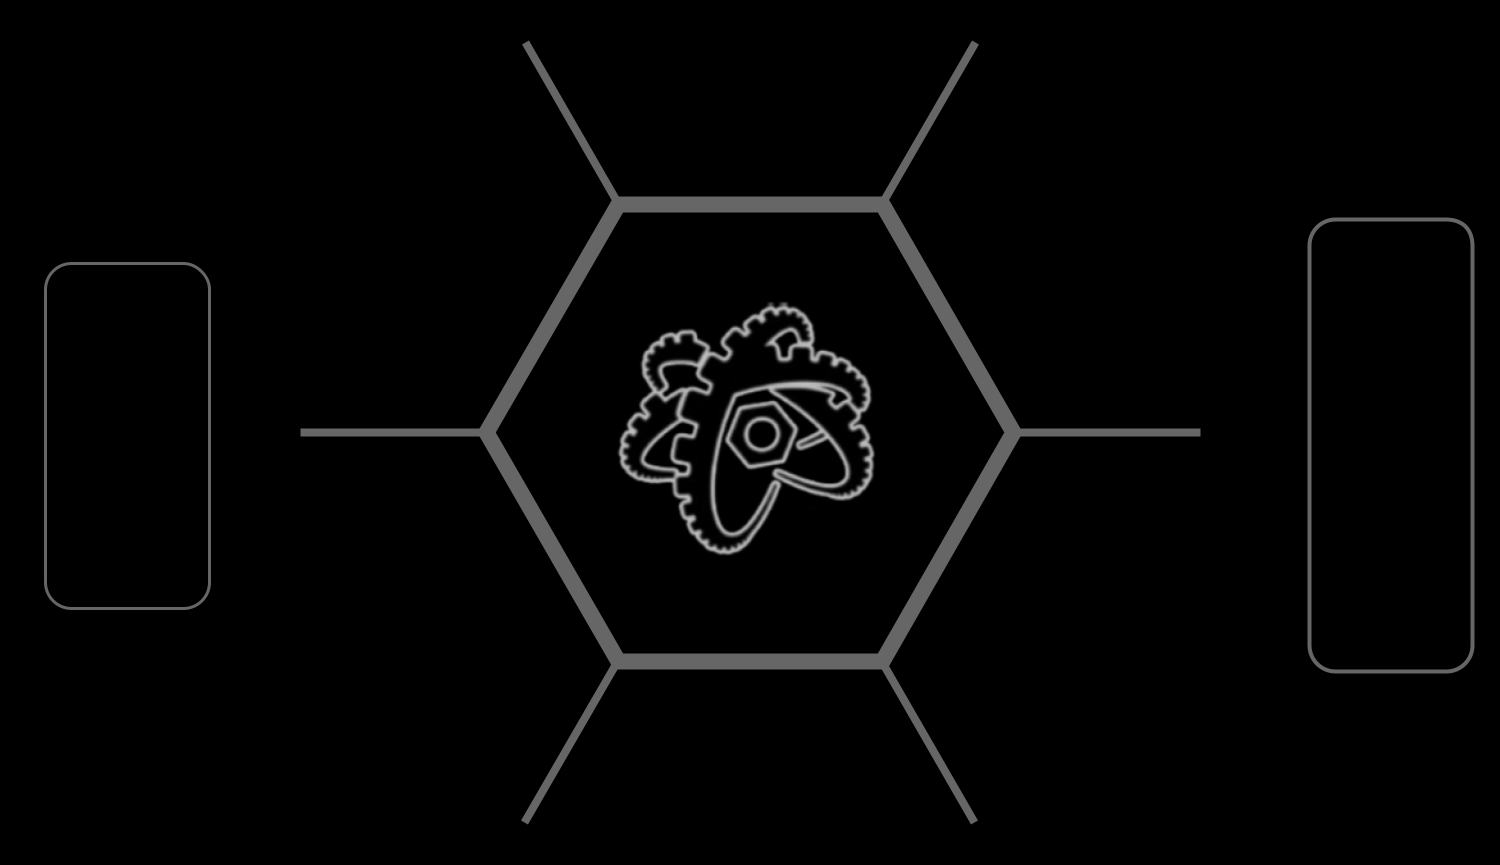
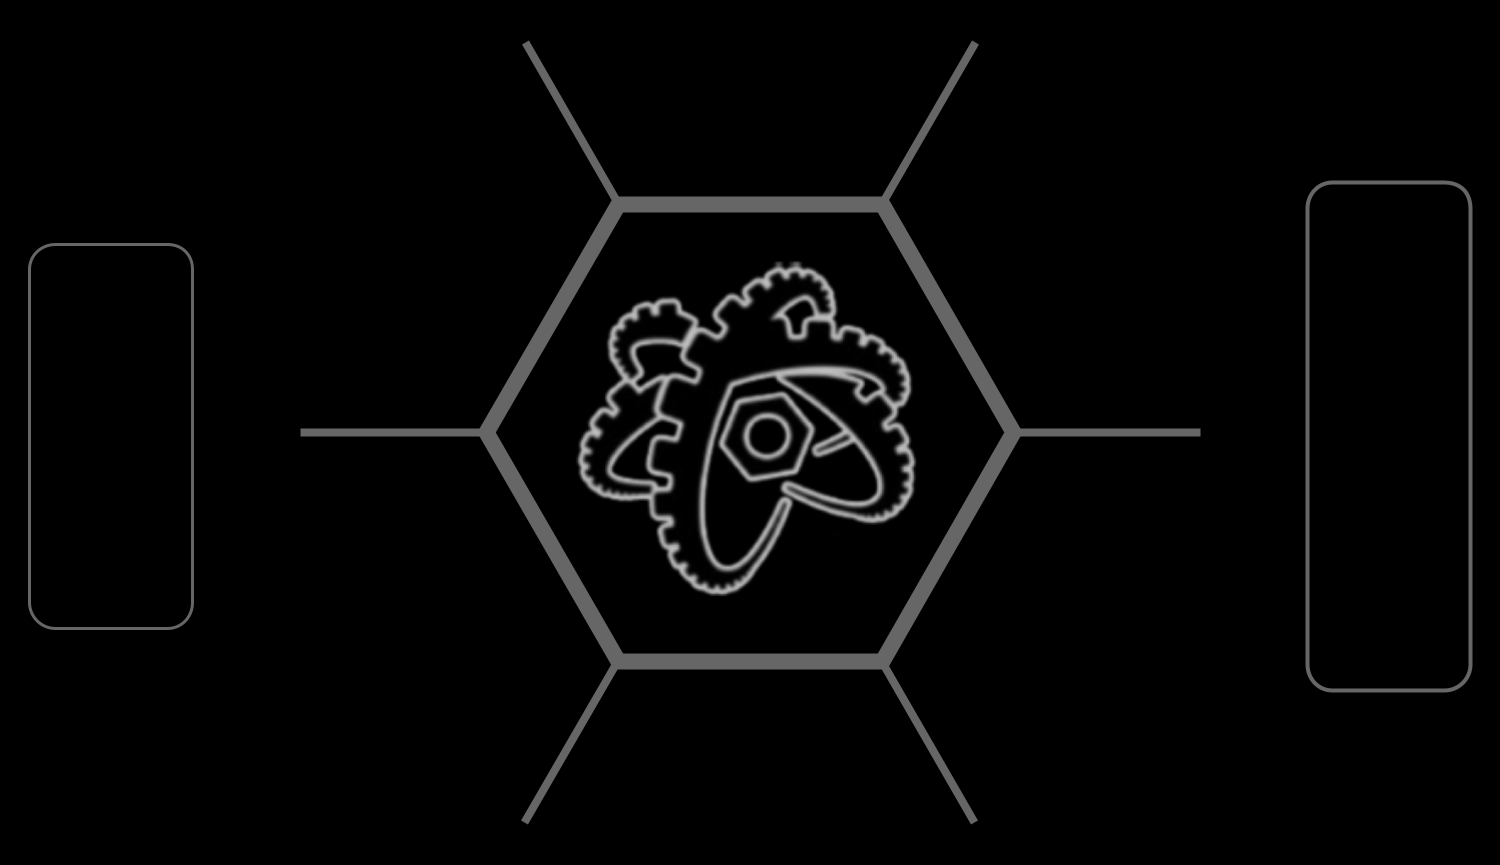
more perfect GUI measurements

diff --git a/subsystems/interface.py b/subsystems/interface.py
@@ -36,7 +36,7 @@ class Interface:
             -996 : [" ", DummyVisualObject("dummy", (0,0))], # used by scrolling
 
             # Example Usage
-            -50 : ["a", BranchButtonVisualObject("go", (100, 865/2), "GO")],
+            -50 : ["a", BranchButtonVisualObject("go", (111, 865/2), "GO")],
         }
 
         for i in range(12):
@@ -44,7 +44,7 @@ class Interface:
             self.ivos[i] = ["a", BranchButtonVisualObject("Branch " + id, (round(math.cos(math.pi * i / 6 - 7 * math.pi /12) * 350) + 1500/2, round(math.sin(math.pi * i / 6 - 7 * math.pi /12) * -350) + 865/2), id)]
 
         for i in range(1,5):
-            self.ivos[i+50] = ["a",BranchButtonVisualObject("Level " + str(i),(1391, (3-i-0.5)*(110)+865/2),"L" + str(i))]
+            self.ivos[i+50] = ["a",BranchButtonVisualObject("Level " + str(i),(1389, (3-i-0.5)*(110)+865/2),"L" + str(i))]
 
 
         '''Control'''

diff --git a/settings.py b/settings.py
@@ -24,7 +24,7 @@ OCCASIONAL_TICK_MS = 5000 # Should keep above 1 second, as it runs processes tha
 
 hexColorToRGBA = lambda hexcolor: tuple(int(hexcolor[i:i+2], 16) for i in (1, 3, 5)) + (255,)
 
-BACKGROUND_COLOR = "#333247" #Background color
+BACKGROUND_COLOR = "#000000" #Background color
 BACKGROUND_COLOR_RGBA = hexColorToRGBA(BACKGROUND_COLOR)
 
 
@@ -51,6 +51,7 @@ EDITOR_SPACING = lambda x: x*20+15
 TEST_IMAGE = getImageRGBAFromPath(os.path.join("resources", "test.png"))
 CONNECTED_ALLIANCE_BACKGROUND = getImageRGBAFromPath(os.path.join("resources", "bg_connected.png"))
 DISCONNECTED_ALLIANCE_BACKGROUND = getImageRGBAFromPath(os.path.join("resources", "bg_disconnected.png"))
+SUBWAY_GIF = getImageRGBAFromPath(os.path.join("resources", "subway guy.gif"))
 
 # Sections
 '''

diff --git a/subsystems/lib/simplefancy.py b/subsystems/lib/simplefancy.py
@@ -10,7 +10,10 @@ def getArrayImageRGBAFromPath(path):
 
 def getImageRGBAFromPath(path):
     '''Given a path, opens the image, converts it to RGBA, and returns the Image.'''
-    return Image.open(path).convert("RGBA")
+    img = Image.open(path)
+    # for i in range(img.n_frames):
+    #     img.seek()
+    return img.convert("RGBA")
 
 def generateColorBox(size:list|tuple = (25,25),color:list|tuple = (255,255,255,255)):
     '''Generates a box of (size) size of (color) color'''
